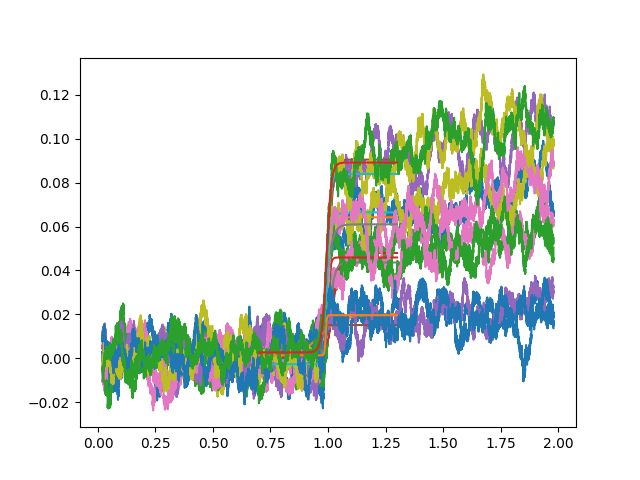
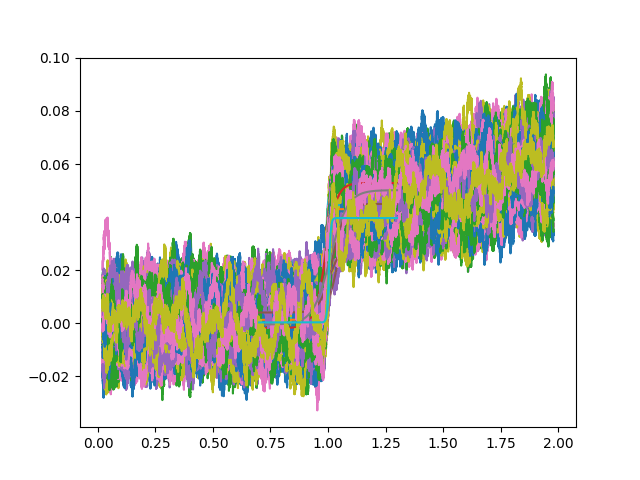
WAYPOINT; rewrote load vs normal force to vary speed instead

diff --git a/python/plot/plot_load_curves.py b/python/plot/plot_load_curves.py
@@ -399,13 +399,16 @@ def load_vs_normal_force():
 
     # user input
     temp = 2300
-    vel = 5
+    force = 0
     orientation = 110
     grid = (4,4)
     erratic = True
     asperities = 8
     initnum = 0
-    time = 2000
+    timestep = 0.002
+    time = 1800
+    reltime = 800
+    pushtime = 1000
 
     lc_len = 361
     # paths
@@ -413,11 +416,11 @@ def load_vs_normal_force():
     fig_dir = project_dir + 'fig/'
     highz_dir = '../../txt/high_z/'
 
-    load_curve_dir = project_dir + 'txt/load_curves/erratic/vary_normforce/'
-    max_static_dir = project_dir + 'txt/max_static/erratic/vary_normforce/'
+    load_curve_dir = project_dir + 'txt/load_curves/erratic/vary_speed/'
+    max_static_dir = project_dir + 'txt/max_static/erratic/vary_speed/'
 
-    template_lc = load_curve_dir + 'load_curves_temp{}_vel{}_force*_asp{}_or{}_seed*_errgrid{}_{}.txt'
-    template_ms = max_static_dir + 'max_static_temp{}_vel{}_force*_asp{}_or{}_seed*_errgrid{}_{}.txt'
+    template_lc = load_curve_dir + 'load_curves_temp{}_vel{}_force{}_asp{}_or{}_seed{}_errgrid{}_{}.txt'
+    template_ms = max_static_dir + 'max_static_temp{}_vel{}_force{}_asp{}_or{}_seed{}_errgrid{}_{}.txt'
     
     foursquare = True
 
@@ -431,15 +434,11 @@ def load_vs_normal_force():
     #for ax in axs:
     #    axs2.append(ax.twinx())
     #axs2 = np.array((axs2))
-    files = glob(template_lc.format(temp, vel, asperities, orientation)
+
+    varyspeed = {2:(55910,60930,14424), 5:(72005,76229,37333), 7:(21702,77727,96687), 10:(56649,11605,41397)}
 
     #c = plt.cm.viridis(np.array(tuple(varyforce))/(0.01))
-    for i, (force, seed) in enumerate(varyforce.items()):
-        matches = re.findall('(\d+(?:\.\d+)?)', _file)
-        print(matches)
-        seed = matches[-3]
-        force = matches[-6]
-
+    for i, (cel, seed) in enumerate(varyspeed.items()):
         
         load_curves_all, load_curves_mean = load_load_curves(temp, vel, force, asperities, orientation,
                                                     grid, template_lc, template_ms, 0, seed, False)
@@ -492,13 +491,12 @@ def load_vs_normal_force():
             axs[i].set_ylim([-0.03, 0.5])
             axs[i].set_xlabel(r"$t_p$ [ns]")
             axs[i].set_ylabel(r"$f$ [$\mu$N]")
-            axs[i].set_title(f'normal force {force}')
+            axs[i].set_title(f'velocity {vel}')
     
-    plt.suptitle(f"Load curves for varying normal force, average of three identical systems with unique seeds")
+    plt.suptitle(f"Load curves for varying top plate velcity, average of three identical systems with unique seeds")
     plt.legend()
     fig.tight_layout(pad=1.8)
-    plt.savefig(fig_dir + 'varying_normalforce_chess.png')
-
+    plt.savefig(fig_dir + 'varying_vel_chess.png')
 
 def plot_production(temp, vel, force, uc, asperities, time, orientation, grid, erratic, production = True):
     

diff --git a/python/plot/plot_asperity_distance.py b/python/plot/plot_asperity_distance.py
@@ -46,7 +46,7 @@ def plot_max_static_dist():
     fig, axs = plt.subplots(2)
     axs = axs.ravel()
 
-    for i in range(10): #this code now works with producition
+    for i in range(100): #this code now works with producition
         lc_files = glob(template_lc.format(temp, vel, force, asperities,orientation, i, grid[0], grid[1]))
         if len(lc_files) > 1:
             lc_file = lc_files[0]
@@ -93,6 +93,8 @@ def plot_max_static_dist():
     axs[0].set_ylabel('rise of simoid fit')
     axs[1].set_xlabel('norm of asperity distance')
     axs[1].set_ylabel('max static')
+    fig.tight_layout()
+    
     fig.suptitle(f"the rise and max static as a function of the norm of asperity distances, \n temp {temp}, force {force}, vel {vel}, asperities {asperities}, orientation {orientation}")
     fig.savefig(fig_dir + 'png/asperity_distance_v_maxstatic.png')
 

diff --git a/python/post/get_load_curves.py b/python/post/get_load_curves.py
@@ -127,4 +127,4 @@ def all_curves(production = True):
 
 if __name__ == '__main__':
     #get_load_curves()
-    all_curves(production = False)
+    all_curves(production = True)
